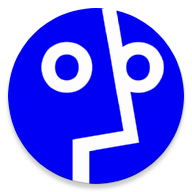
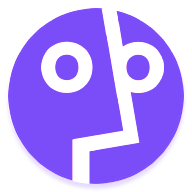
new brand color

diff --git a/www/index.html b/www/index.html
@@ -5,10 +5,10 @@
     <meta http-equiv="Content-Security-Policy" content="default-src *; script-src 'self' 'unsafe-inline' 'unsafe-eval' *; style-src  'self' 'unsafe-inline' *; img-src * data:">
 </head>
 <style>
-    body {background:#0001f7;display:flex;justify-content:center;align-items:center;height:100vh;margin:0}
+    body {background:#7a4df9;display:flex;justify-content:center;align-items:center;height:100vh;margin:0}
     #logo {display:flex;align-items:center;flex-direction:column}
     #retry {display:none;color:#fff;justify-content:center;flex-direction:column;align-items:center;text-align: center}
-    #btn-retry {border:1px #fff solid;border-radius:2px;background:#0001f7;padding:3px 5px;width:33vw;height:48px}
+    #btn-retry {border:1px #fff solid;border-radius:2px;background:#7a4df9;padding:3px 5px;width:33vw;height:48px}
     #hollo-loader-big {position:relative;margin-top:20px;transform:none;float:none;top:auto;left:auto}
     #btn-retry, #retry {color:#fff;font:1.154rem sans-serif;margin-top:30px}
     #hollo-loader-big span {
@@ -18,7 +18,7 @@
         width: 20px;
         border-radius: 8px;
         margin: 8px -2px 0;
-        background-color: #0001f7;
+        background-color: #7a4df9;
         animation: load-anim-small 300ms;
         -webkit-animation: load-anim-small 300ms;
         animation-fill-mode: forwards;
